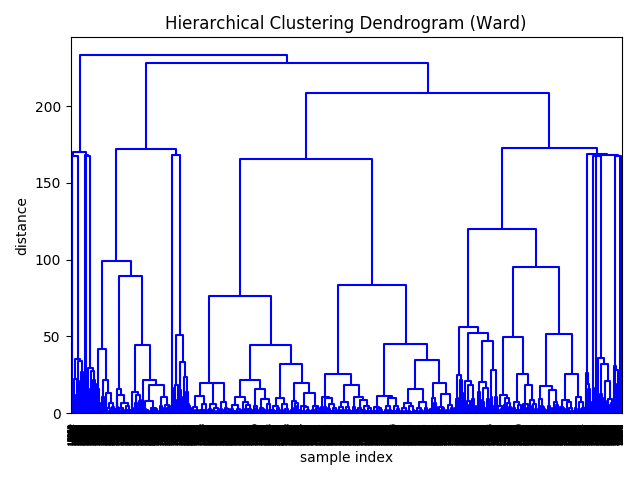
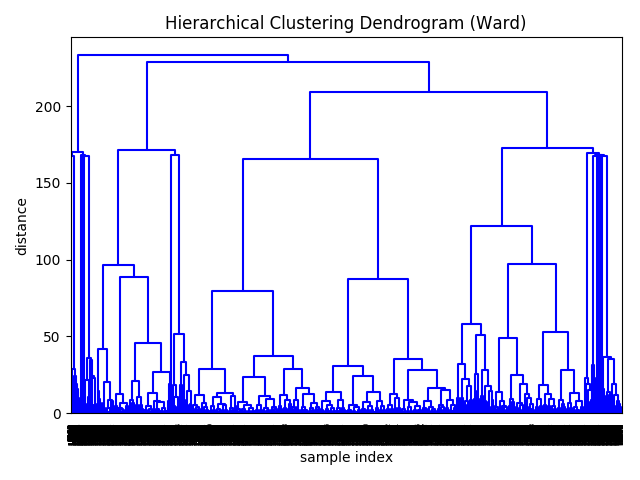
Doit faire le plot des différent contenue des clusters. KEN A CASSER MON ENV.

diff --git a/Kowalski.py b/Kowalski.py
@@ -16,11 +16,13 @@ from scipy.cluster.hierarchy import dendrogram, linkage
 from scipy.spatial.distance import cdist
 import matplotlib.pyplot as plt
 from sklearn.preprocessing import MinMaxScaler, StandardScaler
-from scipy.spatial.distance import cdist
+from R_square_clustering import r_square
 
 
+scaler = None
 pd.set_option('display.max_columns', None)
 def main():
+    global scaler
     # Chargement des datasets
     df_demissionnaire = pd.read_csv("donnees/data_mining_DB_clients_tbl.csv",
                         usecols = ["CDSEXE", "NBENF", "CDSITFAM", "DTADH", "CDTMT", "CDCATCL", "agedem", "adh"])
@@ -111,7 +113,7 @@ def main():
     # save_acp_graph(acp, coord, X, Y, 0, 1)
     # save_acp_graph(acp, coord, X, Y, 2, 3)
     # test_predict(X, Y)
-    # make_dendrogram(X)
+    make_dendrogram(X)
     k = 5
     pca_components = pd.DataFrame(coord)
     make_elbow(X);
@@ -120,10 +122,6 @@ def main():
 def make_Kmeans(k, X_raw, X_pca, Y):
     
     model = KMeans(n_clusters=k, n_init = 20)
-
-    # model.fit(X_pca)
-    # labels = model.labels_
-    # print(labels)
     #Compute cluster centers and predict cluster indices
     X_clustered = model.fit_predict(X_pca)
 
@@ -134,14 +132,24 @@ def make_Kmeans(k, X_raw, X_pca, Y):
     plt.savefig("fig/Kmeans_" + str(k) +"_pca")
     df_res = pd.DataFrame(Y.values, columns=['realData'])
     df_res["labels"] = labels
-    print(df_res)
     model.fit(X_raw)
+    X_raw = pd.DataFrame(scaler.inverse_transform(X_raw), columns = X_raw.columns)
+    print(X_raw)
     X_raw['labels'] = labels
-    # print(X.groupby(['labels','nb_enfants']).size())
-    # print(X.groupby(['labels','categorie']).size())
+    bins = np.linspace(-10, 10, 30)
+    plt.clf()
+    for col in X_raw.columns:
+        print(col," --------------------------")
+        res = X_raw.groupby(['labels',col]).size()
+        print(res)
+        # print ggplot(res, aes(x=col, weight = res.iloc[:,-1], fill = 'labels')) + geom_bar() + theme_bw()
+        plt.hist(res, bins, label=['x', 'y'])
+        plt.legend(loc='upper right')
+        plt.show()
+        plt.clf()
 
 # Function called to plot the elbow graph for choosing the kmeans number of cluster.
-from R_square_clustering import r_square
+
 def make_elbow(X):
  # Plot elbow graphs for KMeans using R square and purity scores
     lst_k=range(1,10)
@@ -169,6 +177,7 @@ def make_dendrogram(X_norm):
     dendrogram(
         linkage_matrix,
         color_threshold=0,
+        show_leaf_counts = True
     )
     plt.title('Hierarchical Clustering Dendrogram (Ward)')
     plt.xlabel('sample index')
